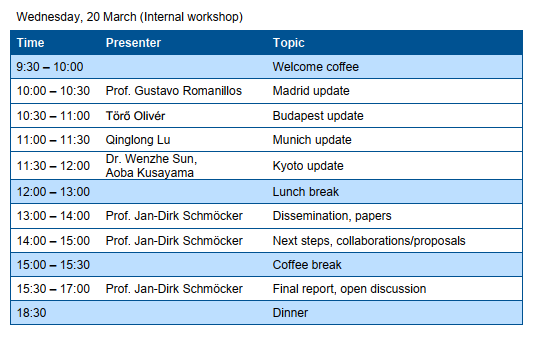
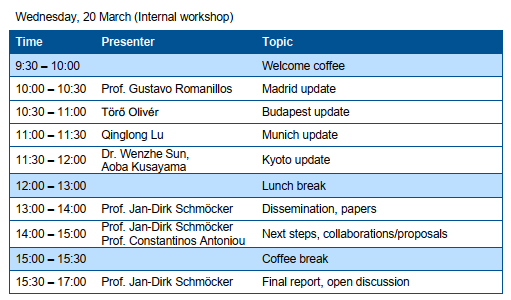
munich news

diff --git a/_portfolio/Workshop_Munich.md b/_portfolio/Workshop_Munich.md
@@ -1,29 +1,23 @@
 ---
-title: "The agenda of the workshop in Munich"
-date: 2024-02-29
+title: "The Third On-Site Workshop in Munich"
+date: 2024-03-19
 type: "Workshop"
-venue: "Room 1713, Technical University of Munich, Kyoto, Japan"
+venue: "Room 1713, Technical University of Munich, Munich, Germany"
 excerpt: ""
 collection: portfolio
-paperurl: '/files/munich_agenda_full.pdf'
 ---
 
-[Download PDF](http://concert-japan-daruma.github.io/files/munich_agenda_full.pdf)
+The third DARUMA workshop was held in Munich between **March 19** and **March 20, 2024**. 
 
-<!-- <object data="http://concert-japan-daruma.github.io/files/munich_agenda_full.pdf" type="application/pdf" width="100%">
-</object> -->
-
-<!-- <embed src="http://concert-japan-daruma.github.io/files/munich_agenda_full.pdf" type="application/pdf"/> -->
-
-<!-- <figure>
-  <img
-  src="http://concert-japan-daruma.github.io/images/Munich/agenda_munich_first.jpg"
-  alt="group_photo"  style="width:10">
-</figure>
+On the first day, we hosted a public workshop centered on the theme of "Transportation Resilience & Opportunistic Data." The agenda for the workshop can be accessed [here](/files/munich_agenda_full.pdf). Alongside the project participants from Kyoto University (Japan), TU Munich (Germany), UC Madrid (Spain), and Budapest ME (Hungary), we were delighted to welcome representatives from the Munich Transport and Tariff Association (MVV), Munich Transport Company (MVG), as well as other research groups with interests aligned with the workshop's focus. Additionally, we had the privilege of inviting Vineet Chaturvedi from TUM to present insights and accomplishments from another CONCERT-Japan project, 3VRUT (Assessment of Transformations in Vitality, Vulnerability, and Versatility of Rural Towns).
 
 <figure>
   <img
-  src="http://concert-japan-daruma.github.io/images/Munich/agenda_munich_second.jpg"
-  alt="group_photo"  style="width:10">
-</figure> -->
+  src="http://concert-japan-daruma.github.io/images/Munich/Munich_group_photo.jpg"
+  alt="munich_group"  style="width:48">
+  <figcaption>Participants in the public workshop on the first day.</figcaption>
+</figure>
 
+On the second day, the DARUMA project partners from Kyoto University (Japan), TU Munich (Germany), Budapest ME (Hungary), UC Madrid (Spain), and Hitachi (Japan) convened for an internal project meeting. Each group provided updates on their respective contributions to the project. Over the course of the meeting, we summarized the outcomes achieved by the DARUMA project in the previous three years and engaged in discussions about potential future collaborations.
+
+We extend our gratitude to the Technical University of Munich for hosting and organizing this workshop, and we express our appreciation to all project partners from Munich, Madrid, and Budapest for their active participation and valuable insights shared during the discussions. Furthermore, we would like to thank our esteemed guests from MVV, MVG, LHM Mobilitätsreferat, Posmo/Datamap, Shiv Nadar University, and Hasselt University for their presence and contributions, which enriched the workshop with their diverse experiences and expertise in relevant areas.

diff --git a/_portfolio/Workshop_Munich_agenda.md b/_portfolio/Workshop_Munich_agenda.md
@@ -1,0 +1,29 @@
+---
+title: "The agenda of the workshop in Munich"
+date: 2024-02-29
+type: "Workshop"
+venue: "Room 1713, Technical University of Munich, Munich, Germany"
+excerpt: ""
+collection: portfolio
+paperurl: '/files/munich_agenda_full.pdf'
+---
+
+[Download PDF](http://concert-japan-daruma.github.io/files/munich_agenda_full.pdf)
+
+<!-- <object data="http://concert-japan-daruma.github.io/files/munich_agenda_full.pdf" type="application/pdf" width="100%">
+</object> -->
+
+<!-- <embed src="http://concert-japan-daruma.github.io/files/munich_agenda_full.pdf" type="application/pdf"/> -->
+
+<!-- <figure>
+  <img
+  src="http://concert-japan-daruma.github.io/images/Munich/agenda_munich_first.jpg"
+  alt="group_photo"  style="width:10">
+</figure>
+
+<figure>
+  <img
+  src="http://concert-japan-daruma.github.io/images/Munich/agenda_munich_second.jpg"
+  alt="group_photo"  style="width:10">
+</figure> -->
+
